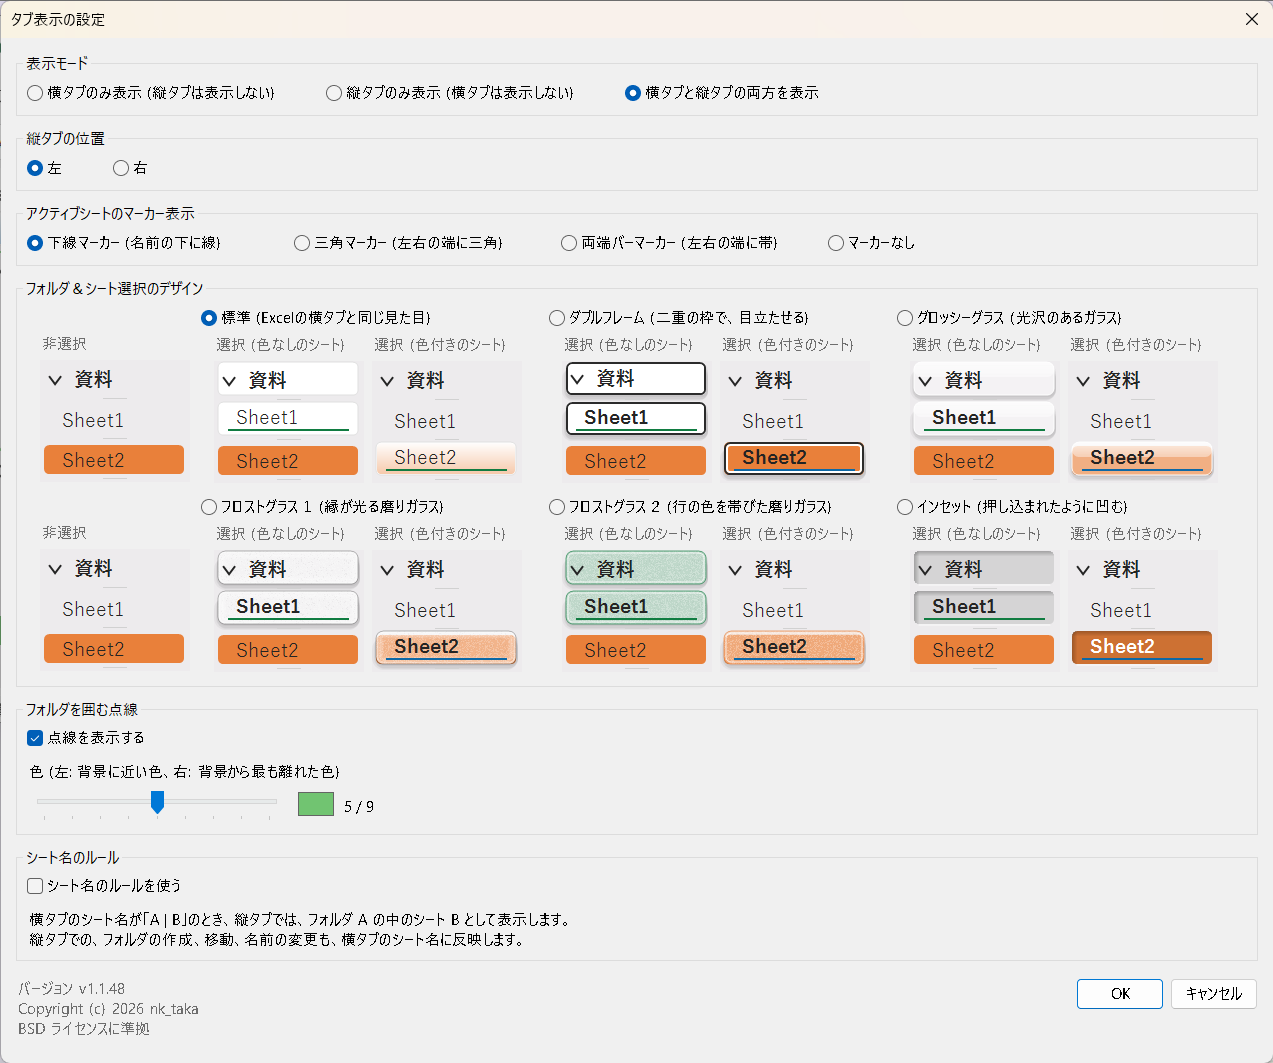
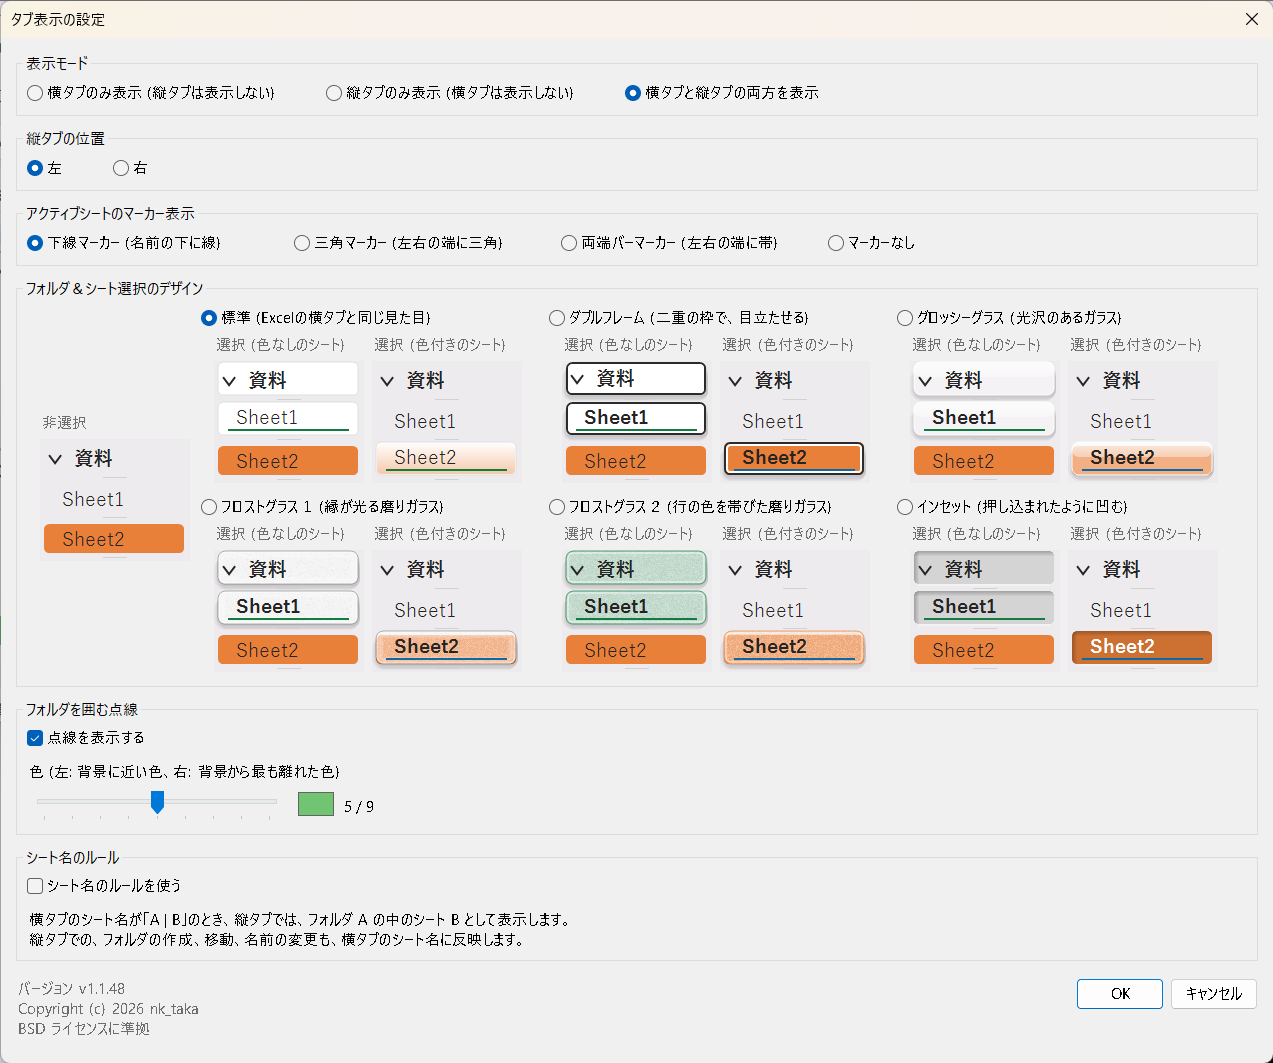
設定画面: 非選択サンプルを、2段の左端の中央に1つだけ置く

Changed region(s): [[0.0306, 0.3415, 0.1532, 0.6519], [0.9804, 0.9934, 1.0, 1.0], [0.0306, 0.3104, 0.0613, 0.3415]]

diff --git a/VerticalSheetTabs/SettingsForm.cs b/VerticalSheetTabs/SettingsForm.cs
@@ -212,7 +212,7 @@ namespace VerticalSheetTabs
                 : SystemColors.Control;
         }
 
-        // The look of selected folders and sheets: the six types in three columns and two rows. Each row starts with one "not selected" sample (the same for every type); each type
+        // The look of selected folders and sheets: the six types in three columns and two rows. One "not selected" sample (the same for every type) stands at the left, centered over both rows; each type
         // has two samples (a folder and a plain sheet selected, a colored sheet selected), all drawn by the tab strip itself.
         private GroupBox CreateStyleGroup()
         {
@@ -231,11 +231,13 @@ namespace VerticalSheetTabs
                 AutoSizeMode = AutoSizeMode.GrowAndShrink,
                 Margin = Padding.Empty
             };
-            panel.Controls.Add(CreateNoneBlock(), 0, 0);
+            var none = CreateNoneBlock();
+            none.Anchor = AnchorStyles.None;
+            panel.Controls.Add(none, 0, 0);
+            panel.SetRowSpan(none, 2);
             panel.Controls.Add(CreateStyleBlock(_styleStandard, SelectStyle.Standard), 1, 0);
             panel.Controls.Add(CreateStyleBlock(_styleDouble, SelectStyle.DoubleFrame), 2, 0);
             panel.Controls.Add(CreateStyleBlock(_styleGlossy, SelectStyle.GlossyGlass), 3, 0);
-            panel.Controls.Add(CreateNoneBlock(), 0, 1);
             panel.Controls.Add(CreateStyleBlock(_styleFrosted, SelectStyle.FrostedGlass), 1, 1);
             panel.Controls.Add(CreateStyleBlock(_styleFrosted2, SelectStyle.FrostedGlass2), 2, 1);
             panel.Controls.Add(CreateStyleBlock(_styleInset, SelectStyle.Inset), 3, 1);
@@ -246,8 +248,7 @@ namespace VerticalSheetTabs
             return group;
         }
 
-        // The "not selected" sample shown once at the start of each row; it looks the same for every type. It is aligned with the samples of the type blocks to its right
-        // (an invisible label stands in for the radio button above them).
+        // The "not selected" sample, shown once at the left of the grid and centered vertically over both rows; it looks the same for every type.
         private FlowLayoutPanel CreateNoneBlock()
         {
             var block = new FlowLayoutPanel
@@ -258,7 +259,6 @@ namespace VerticalSheetTabs
                 WrapContents = false,
                 Margin = new Padding(0, 0, 8, 8)
             };
-            block.Controls.Add(new Label { Text = " ", AutoSize = true, Height = _styleStandard.PreferredSize.Height, Margin = _styleStandard.Margin });
             var strip = new TabStrip();
             strip.SetSample(SelectStyle.Standard, "none", ActiveMarker);
             _samples.Add(strip);

diff --git a/Agents.md b/Agents.md
@@ -1923,7 +1923,7 @@ gitGraph
 ### 12.129 変更: 「フォルダ＆シート選択のデザイン」に名称変更、非選択のサンプルを、各段の左端に1つだけ置く
 
 - ユーザーの要望により、設定画面のグループ名「フォルダ＆シートの選択デザイン」を、「フォルダ＆シート選択のデザイン」に変えた (README、この文書の、設定画面を指す表記も合わせた。過去の記録の本文は、経緯として、そのまま)
-- 選択肢ごとの「非選択」のサンプルは、どの選択肢でも同じ絵のため、上段と下段の左端に、1つずつ (同じ絵) 置くだけにした (`SettingsForm.CreateNoneBlock`)。各選択肢には、「選択 (色なしのシート)」と「選択 (色付きのシート)」の2つのサンプルだけが出る (`CreateStyleBlock`)。選択肢の配置は、横3 x 縦2 のまま (6つ)
+- 選択肢ごとの「非選択」のサンプルは、どの選択肢でも同じ絵のため、左端に、1つだけ、2段の真ん中の高さに置くだけにした (`SettingsForm.CreateNoneBlock`。ユーザーの図のとおり。当初は、各段に1つずつ置いたが、図に合わせて1つにした)。各選択肢には、「選択 (色なしのシート)」と「選択 (色付きのシート)」の2つのサンプルだけが出る (`CreateStyleBlock`)。選択肢の配置は、横3 x 縦2 のまま (6つ)
 - 設定画面の横幅は、約1570px から約1290px (拡大率125%) に狭まった。空いた幅に、各段の右端へ、もう1つずつ、選択肢を足せる (上段と下段で、あわせて2つ。追加する選択肢は、後日、相談する)
-- 実機で確認 (拡大率125%): 左端の非選択のサンプルが、右の選択肢のサンプルと、同じ高さにそろう。選択肢のラジオボタン、サンプルのクリックでの選択は、変わらない。README の設定画面の画像 (`settings_full.png`、`settings_design.png`) を、撮り直した
+- 実機で確認 (拡大率125%): 左端の非選択のサンプルが、2段の真ん中の高さに、1つだけ出る。選択肢のラジオボタン、サンプルのクリックでの選択は、変わらない。README の設定画面の画像 (`settings_full.png`、`settings_design.png`) を、撮り直した
 

diff --git a/README.md b/README.md
@@ -377,7 +377,7 @@ flowchart LR
 | 表示モード | 横タブのみ / 縦タブのみ / 両方 | 横タブ、縦タブの表示を選ぶ |
 | 縦タブの位置 | 左 / 右 | 縦タブのペインを置く側 (「横タブのみ」のときは選べません) |
 | アクティブシートのマーカー表示 | 下線マーカー / 三角マーカー / 両端バーマーカー / マーカーなし (横に並ぶ) | アクティブなシートの印。選んだマーカーは、下の選択デザインのサンプルにも、すぐ反映される。初期値は、下線マーカー |
-| フォルダ＆シート選択のデザイン | 標準 / ダブルフレーム / グロッシーグラス / フロストグラス１ / フロストグラス２ / インセット | 選択中のフォルダとシートの見た目。6つの選択肢が、横3 x 縦2 に並ぶ。各段の左端に、非選択のサンプルが1つ、各選択肢には、選択 (色なしのシート) と選択 (色付きのシート) のサンプルが出る (サンプルをクリックしても選べる)。初期値は、標準 |
+| フォルダ＆シート選択のデザイン | 標準 / ダブルフレーム / グロッシーグラス / フロストグラス１ / フロストグラス２ / インセット | 選択中のフォルダとシートの見た目。6つの選択肢が、横3 x 縦2 に並ぶ。左端に、非選択のサンプルが1つ (2段の中央)、各選択肢には、選択 (色なしのシート) と選択 (色付きのシート) のサンプルが出る (サンプルをクリックしても選べる)。初期値は、標準 |
 | シート名のルール | 使う | [7章](#7-シート名のルール) |
 | フォルダを囲む点線 | 点線を表示する | 開いたフォルダの点線の ON / OFF |
 | | 色 (1から9) | 点線の色。右にいくほど、縦タブの背景から離れた、はっきりした色 |
